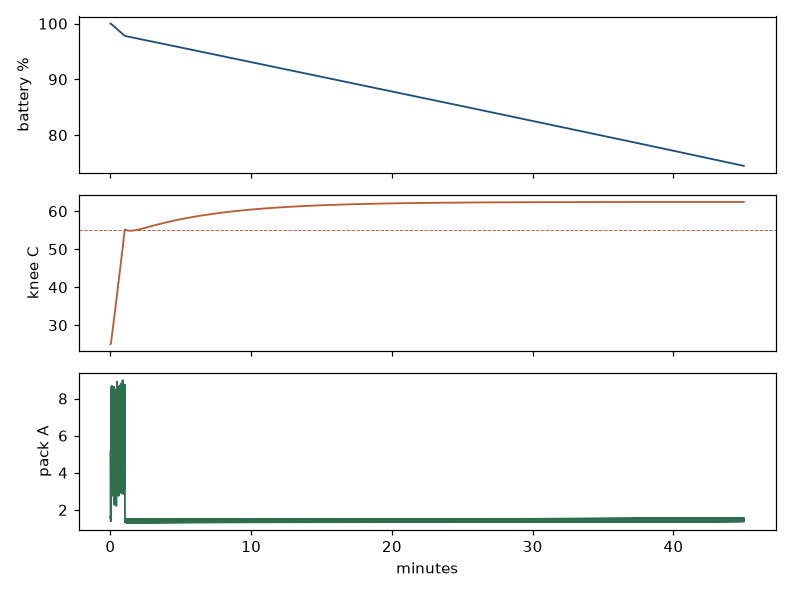
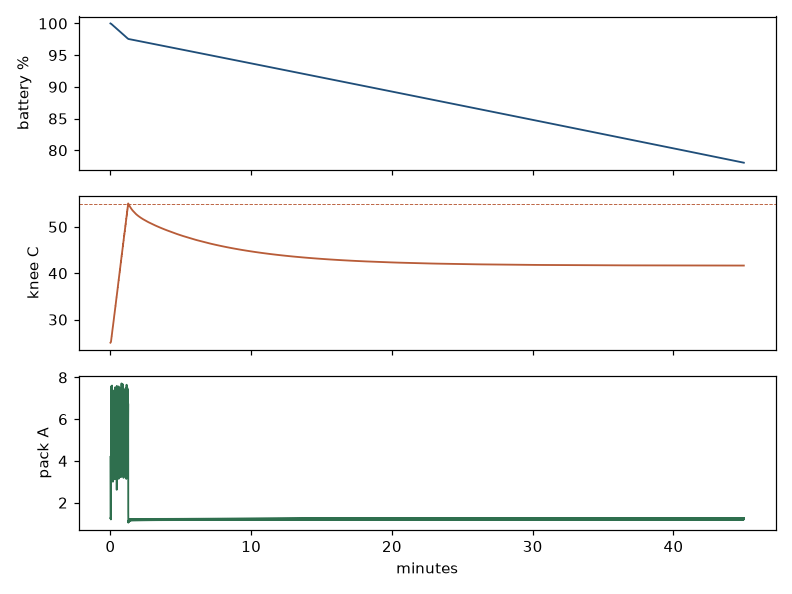
Match the MuJoCo mass model to the current bill.
The walk model now carries the third P45B, the i7C, the 3S protection board, the BQ24133 board, and the limb breakers. The parts check fails if that rollup and the loaded MuJoCo total differ by more than 5 g.

diff --git a/altaay_lab/sim/mass_budget.py b/altaay_lab/sim/mass_budget.py
@@ -52,7 +52,11 @@ PACKWRAP_G = src("packwrap", 5.0, "UNVERIFIED: 2S1P P45B pack wrap: 2 nickel str
 P45B_SEATS = [(-133.1, -9.35, 31.5), (-133.1, 12.2, 31.5)]
 HOLDER_G = src("holder", 25.0, "UNVERIFIED: Amazon B09WCT8672 lists 'Item Weight 0.05 kg' with 'Unit Count 2 Count' (https://www.amazon.com/dp/B09WCT8672); 25 g assumes the 0.05 kg is for 2 holders; 50 g if it is one")
 SG90_G = src("sg90", 9.0, "[I] Amazon B072V529YD Miuzei SG90, 'Item Weight 9 g' (https://www.amazon.com/dp/B072V529YD), lead included")
-BEC_G = src("bec", 29.0, "[I] Castle CC BEC Pro user guide 095-0047-00, 'Weight (w/o wires) 1 oz (29 grams)' (https://www.freakware.de/technik/CastleCreations/cc_bec_pro_user_guide.pdf)")
+BEC_G = src("bec", 29.0, "[I] Castle CC BEC Pro user guide 095-0047-00, 'Weight (w/o wires) 1 oz (29 grams)'. Superseded as the part in the duck. The rail is the i7C.")
+I7C_G = src("i7c", 75.0, "[I] TDK-Lambda i7C catalog, heatsink part, 75 g, recorded on wiring/netlist.yaml U1 ratings and BOM.md line L1. D65. Replaces the Castle 29 g.")
+PCM_G = src("pcm", 21.6, "calc only: cited size 60 x 60 x 5 mm times 1.2 g/cm3, the bounding-box density the old Tenergy line used. The PCM page does not print a mass. Seat is the D65 rear pocket.")
+BQ_BOARD_G = src("bq24133_board", 15.0, "assembled board mass is BLOCKER (BOM.md line 11). 15 g is a stand-in for a small board at the usb_c_charger CAD seat, not a datasheet.")
+BREAKER_G = src("tps259827", 0.08, "package mass was not on the pages opened. 0.08 g each for the RGE body. Three parts, seated on the servo splice until a 3D route exists.")
 SW2815_G = src("sw2815", 2.6, "[I] Pololu 2815 specs, 'Weight: 2.6 g' without the optional connectors (https://www.pololu.com/product/2815/specs)")
 REG_G = src("d30v30f5", 3.3, "[I] Pololu 4892 D30V30F5 specs, 'Weight: 3.3 g' without headers (https://www.pololu.com/product/4892/specs)")
 AMP_G = src("max98357", 1.2, "[I] Adafruit 3006, 'Product Weight: 1.2g' (https://www.adafruit.com/product/3006)")
@@ -331,7 +335,7 @@ def build_budget(holder_g=None, include_antennas=False):
         elif base == "bno055":
             items.append(Item("BNO055 breakout (Adafruit 2472)", "electronics", BNO_G, S["bno055"][1], tgt, mesh_mass(P, T, BNO_G / 1000), True))
         elif base == "usb_c_charger":
-            items.append(Item("USB-C 2S charger (Adeept)", "electronics", CHARGER_G, S["charger"][1], tgt, mesh_mass(P, T, CHARGER_G / 1000), True))
+            items.append(Item("BQ24133 charger board", "electronics", BQ_BOARD_G, S["bq24133_board"][1], tgt, mesh_mass(P, T, BQ_BOARD_G / 1000), True))
         elif base == "power_switch":
             items.append(Item("panel control switch", "electronics", SWITCH_G, S["panel_switch"][1], tgt, mesh_mass(P, T, SWITCH_G / 1000), True))
         elif base == "sg90":
@@ -386,19 +390,27 @@ def build_budget(holder_g=None, include_antennas=False):
                       box_mass(AMP_G / 1000, amp_c, (0.0194, 0.0178, 0.003)), False))
     for nm, n in (("100 ohm LED resistor", 3), ("2.2 kOhm foot pull-up", 2)):
         items.append(Item(nm + f" x{n}", "electronics", n * RES_G, S["resistor"][1], "head_assembly", point_mass(n * RES_G / 1000, pi_c_link), False))
+    # Third P45B. The URDF still draws two cells. FIT3 puts the third 19.41 mm behind that pair.
+    c3 = np.array([-152.51, 1.42, 31.5]) / 1000.0
+    items.append(Item("Molicel P45B cell", "battery", P45B_G, S["p45b"][1] + "; seat: FIT3 blister, axis x -152.51 mm, y 1.42 mm, z 31.5 mm",
+                      "trunk_assembly", box_mass(P45B_G / 1000, c3, (0.02155, 0.02155, 0.07015)), True))
+    assert sum(1 for it in items if it.name == "Molicel P45B cell") == 3
     # ---- lab-only parts at audit/placements.json (URDF zero-pose world = trunk frame, mm) ----
     pl = {p["id"]: p for p in json.load(open(os.path.join(LAB, "audit/placements.json")))}
     def pl_box(pid, g):
         p = pl[pid]; return box_mass(g / 1000, np.array(p["center_mm"]) / 1000, np.array(p["dims_xyz_mm"]) / 1000)
     PLSRC = "; seat: audit/placements.json"
-    items.append(Item("Castle CC BEC Pro", "lab_added", BEC_G, S["bec"][1] + PLSRC, "trunk_assembly", pl_box("bec_pro", BEC_G), False))
-    items.append(Item("CC BEC Pro output leads", "lab_added", BEC_LEADS_G, S["bec_out_leads"][1] + PLSRC, "trunk_assembly", pl_box("bec_pro", BEC_LEADS_G), False))
+    items.append(Item("TDK-Lambda i7C2W020A120V-0F1-R", "lab_added", I7C_G, S["i7c"][1] + "; seat: audit/placements.json bec_pro, the servo regulator seat",
+                      "trunk_assembly", box_mass(I7C_G / 1000, np.array(pl["bec_pro"]["center_mm"]) / 1000, (0.034, 0.0368, 0.0249)), False))
+    items.append(Item("i7C output leads", "lab_added", BEC_LEADS_G, S["bec_out_leads"][1] + PLSRC, "trunk_assembly", pl_box("bec_pro", BEC_LEADS_G), False))
     items.append(Item("Littelfuse FHAC0001ZXJ fuse holder with leads", "lab_added", FUSEHOLDER_G, S["fuse_holder"][1] + PLSRC, "trunk_assembly", pl_box("fuse_holder", FUSEHOLDER_G), False))
     items.append(Item("ATO 15 A fuse", "lab_added", FUSE_G, S["ato_fuse"][1] + PLSRC, "trunk_assembly", pl_box("fuse_holder", FUSE_G), False))
     items.append(Item("Pololu 2815 MOSFET switch", "lab_added", SW2815_G, S["sw2815"][1] + PLSRC, "trunk_assembly", pl_box("mosfet_switch", SW2815_G), False))
     items.append(Item("servo power splices SPV, SPG", "lab_added", 2 * SPLICE_G, S["splice"][1] + PLSRC, "trunk_assembly", pl_box("power_splice", 2 * SPLICE_G), False))
-    items.append(Item("Tenergy 32175 BMS", "lab_added", TENERGY_G, S["tenergy_bms"][1] + PLSRC, "trunk_assembly", pl_box("bms_tenergy", TENERGY_G), True,
-                      "replaces the CAD bms part"))
+    items.append(Item("BatterySpace PCM-L04S30-566", "lab_added", PCM_G, S["pcm"][1] + PLSRC, "trunk_assembly", pl_box("bms_tenergy", PCM_G), True,
+                      "D65 rear pocket. Replaces the Tenergy 32175."))
+    items.append(Item("TPS259827 limb breaker x3", "electronics", 3 * BREAKER_G, S["tps259827"][1] + "; seat: servo splice, no 3D route yet",
+                      "trunk_assembly", point_mass(3 * BREAKER_G / 1000, np.array(pl["power_splice"]["center_mm"]) / 1000), False))
     # parts from the netlist without a CAD body: XT30 pair, the other solder splices, foot switches
     def inst_centroid(fn, link):
         for tgt, f, T, ln in inst:

diff --git a/altaay_lab/twin/parts_truth.py b/altaay_lab/twin/parts_truth.py
@@ -99,22 +99,37 @@ def num_in(text, rx):
 _MASS = {"done": False, "v": None}
 
 
-def mass_kg():
-    """Whole duck from sim/mass_budget.py. None when the playground pin is not set."""
+def mass_pair():
+    """MuJoCo loaded total and the BOM item rollup. None when the playground pin is not set."""
     if _MASS["done"]:
         return _MASS["v"]
     _MASS["done"] = True
     pg = os.environ.get("ODM_PLAYGROUND")
     if not pg or not os.path.isdir(pg):
+        _MASS["v"] = None
         return None
     sim = os.path.join(LAB, "sim")
     if sim not in sys.path:
         sys.path.insert(0, sim)
     os.environ.setdefault("ODM_OUT", os.path.join(tempfile.gettempdir(), "duck_mass"))
+    os.environ.setdefault("ODM_SCRATCH", os.path.join(tempfile.gettempdir(), "duck_mass_scratch"))
     import mass_budget as MB
+    import added_mass_sim as AM
     built = MB.build_budget()
-    _MASS["v"] = round(sum(link.m for link in built["links"].values()), 4)
+    rollup = round(float(sum(it.mass_g for it in built["items"]) / 1000.0), 4)
+    trunk = round(float(built["links"]["trunk_assembly"].m), 4)
+    folder = AM.write_variant("parts_truth", built["links"])
+    model = AM.model_check(folder, "scene_flat_terrain_backlash.xml")
+    loaded = round(float(model.body_mass.sum()), 4)
+    _MASS["v"] = dict(mujoco_kg=loaded, rollup_kg=rollup, trunk_kg=trunk)
     return _MASS["v"]
+
+
+def mass_kg():
+    pair = mass_pair()
+    if pair is None:
+        return None
+    return pair["mujoco_kg"]
 
 
 def joint_limits():
@@ -187,10 +202,15 @@ def derive():
     walk_guard = num_in(guard, r"self\.pack_walk_min_v\s*=\s*([0-9.]+)")
     walk_net = num_in(power, r"WALK_PACK_MIN_V\s*=\s*([0-9.]+)")
 
-    robot_kg = mass_kg()
+    pair = mass_pair() or {}
+    robot_kg = pair.get("mujoco_kg")
+    trunk_kg = pair.get("trunk_kg")
+    rollup_kg = pair.get("rollup_kg")
     if robot_kg is None and os.path.exists(PARTS_PATH):
-        prior = load_yaml(PARTS_PATH)
-        robot_kg = prior.get("mass", {}).get("robot_kg")
+        prior = load_yaml(PARTS_PATH).get("mass", {})
+        robot_kg = prior.get("robot_kg")
+        trunk_kg = trunk_kg if trunk_kg is not None else prior.get("trunk_kg")
+        rollup_kg = rollup_kg if rollup_kg is not None else prior.get("rollup_kg")
     doc = dict(
         derived_from=[
             rel(NETLIST),
@@ -321,7 +341,10 @@ def derive():
             regulator_g=float(reg["ratings"]["mass_g"]),
             robot_kg=robot_kg,
             mass_label="CAD mass model",
-            robot_note="Whole duck from sim/mass_budget.py. MuJoCo loads the same total. Trunk body alone is about 1.065 kg. Stock model is 2.107 kg. This file still has two P45B cells, the Castle regulator at 29 g, and the Tenergy board.",
+            robot_note="Whole duck. MuJoCo body masses must match the mass-model item rollup. Trunk is the trunk body only. Includes 3 P45B cells, the i7C, the PCM, the BQ24133 board, and 3 breakers.",
+            trunk_kg=trunk_kg,
+            rollup_kg=rollup_kg,
+            stock_kg=2.1071,
         ),
     )
     return doc
@@ -434,9 +457,12 @@ def problems(doc=None):
                     fail("joint %s %s disagrees with servo_limits.json" % (name, key))
     if not isinstance(doc["mass"].get("robot_kg"), (int, float)):
         fail("whole-duck mass is missing from the CAD mass model")
-    live_m = mass_kg()
-    if live_m is not None and abs(float(doc["mass"]["robot_kg"]) - live_m) > 0.002:
-        fail("parts mass %.4f kg disagrees with the CAD mass model %.4f kg" % (float(doc["mass"]["robot_kg"]), live_m))
+    pair = mass_pair()
+    if pair is not None:
+        if abs(pair["mujoco_kg"] - pair["rollup_kg"]) > 0.005:
+            fail("MuJoCo total %.4f kg differs from the BOM mass rollup %.4f kg" % (pair["mujoco_kg"], pair["rollup_kg"]))
+        if abs(float(doc["mass"]["robot_kg"]) - pair["mujoco_kg"]) > 0.005:
+            fail("parts mass %.4f kg disagrees with the MuJoCo loaded total %.4f kg" % (float(doc["mass"]["robot_kg"]), pair["mujoco_kg"]))
 
     rest = doc["rest"]
     if rest["stop_c"] <= rest["resume_c"]:

diff --git a/altaay_lab/twin/run_twin.py b/altaay_lab/twin/run_twin.py
@@ -431,12 +431,13 @@ def write_report(path, parts, result, thermal, charge, dock, hits, seconds):
     a("- A pack-voltage sensor on the Pi. The 10 V stop is in the guard, and this sim passes the modeled pack voltage in. The Pi still has no sensor (BLOCKER).")
     a("- Winding resistance of the C018 as a measured number. The heat model still uses the assumed split from the older sheet.")
     a("- The i7C current below 10 V, the TRIM resistor, and the wide boost tolerance above 100 W (BLOCKER).")
-    a("- The third cell, the i7C at 75 g, and the 3S protection board. The mass model still has two P45B cells, the Castle regulator at 29 g, and the Tenergy board.")
     a("- Felt, dirt, and a measured well contact.")
     a("- The turn-offset table at 12 V. The dock uses the 7.2 V aim offset with a 12 V rail.")
     a("- Hardware. Every temperature, speed, and current above that says sim pass only is a model output.")
     a("")
-    a("The duck mass in the table is the whole robot from the CAD mass model. The trunk body alone is 1.065 kg. The stock Open Duck Mini model is 2.107 kg. MuJoCo loads 2.8078 kg, the same total. The extra over stock is mostly printed parts, 1254 g, and 14 servos at 55 g, 770 g, plus screws and wire.")
+    a("The duck mass is the whole robot. The trunk body alone is %.3f kg. The stock Open Duck Mini model is %.3f kg. MuJoCo loads %.3f kg, and the parts rollup is %.3f kg. The rollup includes three P45B cells at the cited 70 g, the i7C at the cited 75 g, the 3S protection board, the BQ24133 board, and three limb breakers. The protection-board grams are the cited size times 1.2 g/cm3 (calc only). The BQ24133 assembled grams and the breaker package grams are not on a datasheet." % (
+        float(parts["mass"].get("trunk_kg") or 0), float(parts["mass"].get("stock_kg") or 0),
+        float(parts["mass"].get("robot_kg") or 0), float(parts["mass"].get("rollup_kg") or 0)))
     a("")
     text = _no_dash("\n".join(lines) + "\n")
     with open(path, "w", encoding="utf-8") as f:

diff --git a/altaay_lab/twin/out/REPORT.md b/altaay_lab/twin/out/REPORT.md
@@ -8,19 +8,19 @@ This is a simulation. Nothing here was measured on a servo, a cell, or a board.
 
 It walked (sim pass only).
 The clock on this run is 45.00 minutes (sim pass only). It stops at the 10 V pack cutoff or at 45 minutes, whichever comes first.
-It covered 16.17 m along the path, and ended 1.48 m from the start (sim pass only).
+It covered 10.85 m along the path, and ended 1.51 m from the start (sim pass only).
 The command is a room circuit: 6 s forward at 0.20 m/s, then a 2.2 s turn, four times around. An earlier run with the forward command held fixed logged 17.29 m of path and only 1.34 m from the start in 2 minutes, because the heading drifts and the path folds into a curve. That was not a room.
-Mean speed along the path was 0.006 m/s (sim pass only, path divided by time).
-Battery at the end was 74.5 percent of the 4.50 Ah nameplate, 1148 mAh used (sim pass only for the coulomb count, cited for the nameplate).
+Mean speed along the path was 0.004 m/s (sim pass only, path divided by time).
+Battery at the end was 78.0 percent of the 4.50 Ah nameplate, 988 mAh used (sim pass only for the coulomb count, cited for the nameplate).
 The pack did not reach the 10.0 V walk cutoff in this run (cited cutoff, sim pass only for the voltage).
-Pack voltage in the logged stats was 12.09 V mean and 11.78 V minimum (sim pass only).
-Pack peak 12.31 A is this 0.20 m/s room loop on the held 12.0 V rail (sim pass only). The 15.837 A in eval_table_bec12.md is a different case: the 0.40 m/s piece of a speed sequence, and that table still drops the regulator by 0.3 V instead of holding 12.0 V. The same table's 0.15 m/s typical peak is 8.956 A. Both peaks are sim pass only. Neither was measured on a pack.
-Hottest reading was the right knee at 62.4 C (sim pass only). The limit on that reading is the 60 C operating line on the servo page used by the thermal model, and the 55.0 C rest in the limits file.
-The 55 C rest is inside the walk, not a replay. At 55 C the walk command goes to zero and the policy stands. It rested 1 time. Walking was 2 percent of the bins (sim pass only).
+Pack voltage in the logged stats was 12.14 V mean and 11.80 V minimum (sim pass only).
+Pack peak 12.66 A is this 0.20 m/s room loop on the held 12.0 V rail (sim pass only). The 15.837 A in eval_table_bec12.md is a different case: the 0.40 m/s piece of a speed sequence, and that table still drops the regulator by 0.3 V instead of holding 12.0 V. The same table's 0.15 m/s typical peak is 8.956 A. Both peaks are sim pass only. Neither was measured on a pack.
+Hottest reading was the right knee at 55.1 C (sim pass only). The limit on that reading is the 60 C operating line on the servo page used by the thermal model, and the 55.0 C rest in the limits file.
+The 55 C rest is inside the walk, not a replay. At 55 C the walk command goes to zero and the policy stands. It rested 1 time. Walking was 3 percent of the bins (sim pass only).
 Turning the motor gains fully off tips this walk model over in a few seconds, and the knee joints only reach 90 deg, so the 147 deg sit from the sit study does not fit. The rest is therefore a powered stand. Holding the body up keeps the knee near 55 C, so it does not cool to 45 C and does not start walking again. That limit is sim pass only.
 Dock: BLOCKER. The nest sim does not use a camera. It drives on the true pose plus noise. A seat in that sim is not a dock. The mechanical sim used the run C policy and a 12 V rail. It sat (sim pass only). The aim offset table has no 12 V row, so that offset stayed at the 7.2 V measurement. Finding the nest by camera was not simulated.
-Charge: the NTC gate is open at a cell temperature of 28.9 C (calc only, bead beta and the BQ24133 divider). Time to put the used 1148 mAh back at 1.006 A is 1.14 hours (calc only).
-Limits this run touched: hottest reading 62.4 C crossed the 60 C operating line; hottest reading reached the 55.0 C rest.
+Charge: the NTC gate is open at a cell temperature of 28.1 C (calc only, bead beta and the BQ24133 divider). Time to put the used 988 mAh back at 1.006 A is 0.98 hours (calc only).
+Limits this run touched: hottest reading reached the 55.0 C rest.
 
 ## Numbers
 
@@ -28,28 +28,28 @@ Limits this run touched: hottest reading 62.4 C crossed the 60 C operating line;
 |---|---|---|
 | walked | yes | sim pass only |
 | duration | 45.00 min | sim pass only |
-| path | 16.17 m | sim pass only |
-| net travel | 1.48 m | sim pass only |
+| path | 10.85 m | sim pass only |
+| net travel | 1.51 m | sim pass only |
 | rests | 1 | sim pass only |
 | body speed | 0.003 m/s | sim pass only |
-| duck mass | 2.808 kg | CAD mass model |
-| battery left | 74.5 percent | sim pass only |
+| duck mass | 2.949 kg | CAD mass model |
+| battery left | 78.0 percent | sim pass only |
 | nameplate | 4.50 Ah | cited |
-| pack mean | 12.09 V | sim pass only |
-| pack minimum | 11.78 V | sim pass only |
-| pack mean current | 1.53 A | sim pass only |
-| pack peak current | 12.31 A | sim pass only |
+| pack mean | 12.14 V | sim pass only |
+| pack minimum | 11.80 V | sim pass only |
+| pack mean current | 1.32 A | sim pass only |
+| pack peak current | 12.66 A | sim pass only |
 | servo rail set point | 12.0 V | cited |
 | regulator efficiency used | 0.94 | cited |
 | walk cutoff | 10.0 V | cited |
 | hottest part | right knee | sim pass only |
-| hottest reading | 62.4 C | sim pass only |
+| hottest reading | 55.1 C | sim pass only |
 | rest stop | 55 C | limits file |
 | rest resume | 45 C | limits file |
-| cell temperature | 28.9 C | sim pass only |
+| cell temperature | 28.1 C | sim pass only |
 | dock | BLOCKER | BLOCKER |
 | charge current | 1.006 A | cited |
-| time to replace what was used | 1.14 h | calc only |
+| time to replace what was used | 0.98 h | calc only |
 | NTC allows charge | yes | calc only |
 | fuse | 15 A | cited |
 | thermal step | 0.1 s | sim pass only |
@@ -63,8 +63,7 @@ Limits this run touched: hottest reading 62.4 C crossed the 60 C operating line;
 - The i7C current below 10 V, the TRIM resistor, and the wide boost tolerance above 100 W (BLOCKER).
 - Felt, dirt, and a measured well contact.
 - The turn-offset table at 12 V. The dock uses the 7.2 V aim offset with a 12 V rail.
-- The third cell, the i7C at 75 g, and the 3S protection board. The 2.808 kg mass still has two P45B cells, the Castle regulator at 29 g, and the Tenergy board.
 - Hardware. Every temperature, speed, and current above that says sim pass only is a model output.
 
-The 2.808 kg is the whole duck, not the trunk. The trunk body alone is 1.065 kg. The stock Open Duck Mini model is 2.107 kg. MuJoCo's loaded total for this walk is 2.8078 kg, the same number as the mass model. The difference from stock is mostly printed parts (1254 g) and 14 servos at 55 g (770 g), plus screws and wire.
+The duck mass is the whole robot. The trunk body alone is 1.207 kg. The stock Open Duck Mini model is 2.107 kg. MuJoCo loads 2.949 kg, and the parts rollup is 2.949 kg. The rollup includes three P45B cells at the cited 70 g, the i7C at the cited 75 g, the 3S protection board, the BQ24133 board, and three limb breakers. The protection-board grams are the cited size times 1.2 g/cm3 (calc only). The BQ24133 assembled grams and the breaker package grams are not on a datasheet.
 

diff --git a/altaay_lab/TWIN_CHECKLIST.md b/altaay_lab/TWIN_CHECKLIST.md
@@ -258,18 +258,18 @@ Current duck, 2026-11-12 9:41 PM ET. Pack is three P45B cells and the 12 V STS32
 - Pass: one command runs a full pack, the run C policy in MuJoCo, the power path, the thermal twin at 0.1 s with the 55/45 rest, a camera dock, and a BQ24133 charge, and every physical number comes from twin/parts.yaml.
 - Status: FAIL.
 - Gate: partial.
-- Result: 2026-11-14, `make twin`, 45.00 minutes, sim pass only (twin/out/REPORT.md). One rest at 55 C, then the policy stands with the motors still on. Walking was 2 percent of the bins. Path over the whole clock 16.17 m, end point 1.48 m from the start. Pack minimum 11.78 V, so the 10.0 V cutoff was not reached (cited). Nameplate left 74.5 percent. Peak pack current 12.31 A on this 0.20 m/s circuit. The 15.837 A in eval_table_bec12.md is the 0.40 m/s piece of a speed sequence on the old dropout model. Knee reading 62.4 C. A zero-gain rest tips this walk model, and the knee range is only 90 deg, so the 147 deg sit does not fit. The nest sim sat once on run C at 12 V. Camera finding is BLOCKER. Charge at 1.006 A would replace the used charge in 1.14 h (calc only). Whole-duck mass in the parts file is 2.8078 kg from the CAD mass model. Joint limits are copied from software/servo_limits.json. D61 was not edited.
+- Result: 2026-11-14, `make twin`, 45.00 minutes, sim pass only (twin/out/REPORT.md). One rest at 55 C, then the policy stands with the motors still on. Walking was 3 percent of the bins. Path over the whole clock 10.85 m, end point 1.51 m from the start. Pack minimum 11.80 V, so the 10.0 V cutoff was not reached (cited). Nameplate left 78.0 percent. Peak pack current 12.66 A on this 0.20 m/s circuit. The 15.837 A in eval_table_bec12.md is the 0.40 m/s piece of a speed sequence on the old dropout model. Knee reading 55.1 C. A zero-gain rest tips this walk model, and the knee range is only 90 deg, so the 147 deg sit does not fit. The nest sim sat once on run C at 12 V. Camera finding is BLOCKER. Charge at 1.006 A would replace the used charge in 0.98 h (calc only). MuJoCo loads 2.9491 kg and the parts rollup is the same number. That rollup has three P45B cells, the i7C at 75 g, the 3S protection board, the BQ24133 board, and three limb breakers. Joint limits are copied from software/servo_limits.json. D61 was not edited.
 - Guess: the one-minute knee is still a model output. The C018 winding split is not a measured resistance. The Pi has no pack-voltage sensor, so the 10 V stop cannot yet be read on the duck.
 - Next: do not call this a hardware dock or a hardware heat time. A camera model, or a logged servo, is what would move this row.
 
 ## What blocks gate 0, in order
 
-1. One command now chains the walk, the power path, the heat, and a charge estimate (twin/out/REPORT.md). The camera dock is still BLOCKER. Nest v2 is not in the print set. D61 was not edited. The BQ24133 board has no seat in the walking model. Gate 0 cannot pass.
+1. One command now chains the walk, the power path, the heat, and a charge estimate (twin/out/REPORT.md). The camera dock is still BLOCKER. Nest v2 is not in the print set. D61 was not edited. The BQ24133 board sits on the old charger mesh. Its assembled mass is not on a datasheet. Gate 0 cannot pass.
 2. The bill does not match that duck. Buy-today total is $1204.26 (calc only). Per-duck parts are $957.75 (calc only). Felt, the wells, the gate board, and the weld have no orderable part (BLOCKER). The 12 V servo is on the order line.
 3. The camera finder, the felt grade, and a measured well contact are not models. The nest sims, including v3 and the blind walk, are a pose stand-in on a rigid mat. Do not quote 380 of 540 as a charge rate. That cannot stand in for gate 0.
 4. A continuous walk still leaves the 60 C operating range (KNEE_HEAT_STUDY.md, calc only and sim pass only). The 2.30 W and 3.50 W sit is the MCP73213 2S record (CHARGE_WATTS.md, sim pass only). The 3S die figures are upper bounds (BQ24133_HEAT.md). The die in the trunk is BLOCKER. The 55 C guard is a software stop in unit tests. The 3S BEC case temperature was not run (BLOCKER).
 5. ~~With the sheet stall the walk falls.~~ ~~On 3S the old policy does not fall in 60 s at about 0.088 m/s (sim pass only, problems/FIT3.md).~~ Superseded 2026-11-12 9:55 PM ET by run C: 60 s, no fall, up to 0.252 m/s typical at a 0.40 m/s command (sim pass only). Not a run. The electrical fall and get-up replay traces are not in this repo (BLOCKER).
-6. The welded pack has no part number (BLOCKER). The cell count on the bill is 3. The 3S blister fit is problems/FIT3.md (CAD check only). The BQ24133 drawing exists and has no seat.
+6. The welded pack has no part number (BLOCKER). The cell count on the bill is 3. The 3S blister fit is problems/FIT3.md (CAD check only). The BQ24133 drawing sits on the old charger mesh. Assembled mass is not on a datasheet.
 7. Structure stays under the lab margin on the print that would be made. The recessed web in PA6-CF is walk 2.85 and soft worst 1.61 at 0.75 mm (FEA pass only) and is not in print/. Hot and wet tensile are BLOCKER.
 8. Fitted screws are 310 and builder-turned screws are 254 (CAD check only). print/ was not edited. Under 200 is not met. Nest v2 is not in that schedule.
 9. Get-up misses 48 down-ramp front rests (sim pass only). Limp-seat friction on the docked rail is BLOCKER (twin/sit/RAIL_OFF_SIT.md). The STS3250 knee study is superseded as the servo to buy.
